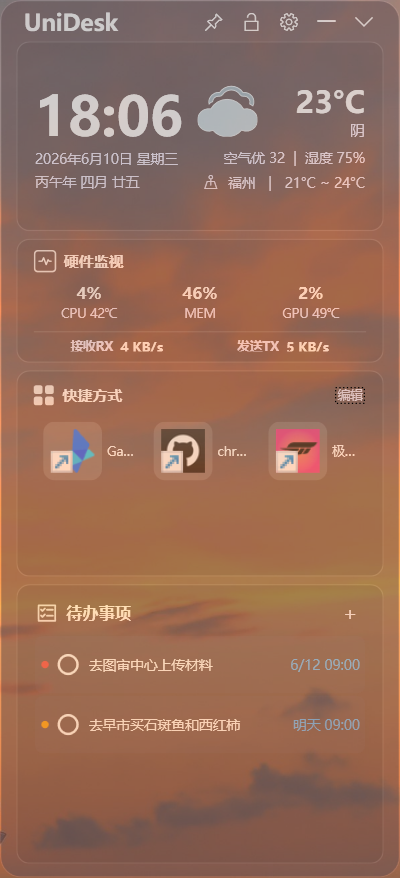
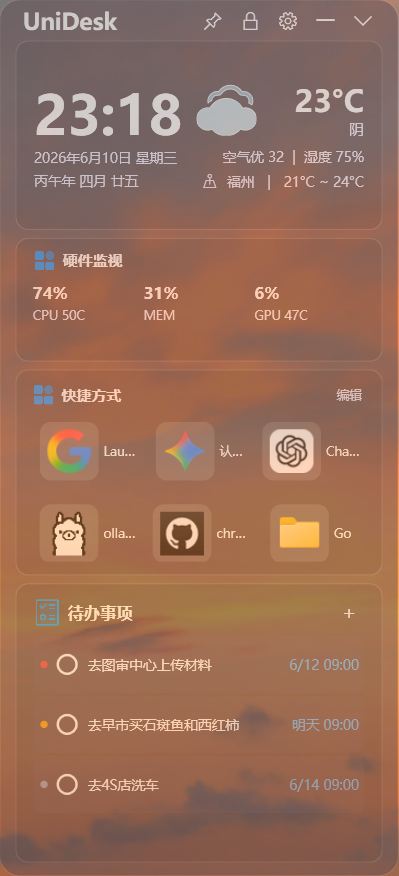
Improve GitHub documentation

diff --git a/README.zh-CN.md b/README.zh-CN.md
@@ -5,7 +5,7 @@
 </p>
 
 <p align="center">
-  <b>轻量的 Windows 桌面侧边栏，把时间天气、硬件监视、快捷方式和待办事项集中到一个面板里。</b>
+  <b>轻量的 Windows 桌面侧边栏，把时间天气、硬件监视、快捷方式、待办事项和个人桌面工作流集中到一个面板里。</b>
 </p>
 
 <p align="center">
@@ -13,36 +13,54 @@
 </p>
 
 <p align="center">
+  <a href="#项目介绍">项目介绍</a> ·
+  <a href="#原项目致谢">原项目致谢</a> ·
   <a href="#功能亮点">功能亮点</a> ·
-  <a href="#截图">截图</a> ·
-  <a href="#硬件监视">硬件监视</a> ·
-  <a href="#安装">安装</a> ·
-  <a href="#构建">构建</a>
+  <a href="#界面截图">界面截图</a> ·
+  <a href="#安装使用">安装使用</a> ·
+  <a href="#开发构建">开发构建</a>
 </p>
 
-UniDesk 是一个紧凑的个人桌面中心，可以贴在桌面边缘，常驻显示日常信息、快捷入口和轻量系统状态。它支持主题颜色、透明度、宽度、置顶、锁定和收起展开，适合作为长期使用的桌面侧边工具。
+## 项目介绍
+
+UniDesk 是一个紧凑的 Windows 桌面侧边工具。它可以贴在桌面边缘，常驻显示时间、天气、快捷入口、待办事项和轻量硬件状态。
+
+它的目标不是做一个复杂的桌面管理器，而是提供一个安静、顺手、可长期使用的个人桌面中心：需要时一直可见，不需要时可以收起，样式也能和桌面主题保持一致。
+
+## 原项目致谢
+
+UniDesk 基于 [Happyeveryweek/LumiDesk](https://github.com/Happyeveryweek/LumiDesk) 开发。感谢原作者提供的创意、基础代码和桌面小工具体验。
+
+本项目在 LumiDesk 的基础上进行了品牌重命名、硬件监视集成、实时网速显示、布局优化、双语说明文档和安装包发布等扩展。
 
 ## 功能亮点
 
-- **时间天气**：显示时间、日期、农历、天气、湿度、空气质量和温度范围。
+- **时间天气**：显示当前时间、日期、农历、天气、湿度、空气质量和温度范围。
 - **硬件监视**：显示 CPU、内存、GPU、温度，以及实时网络接收/发送速度。
 - **快捷方式**：把常用应用、文件夹或文件固定到侧边栏，一键打开。
 - **待办事项**：记录待办任务，支持优先级、到期时间、完成状态、备份和还原。
+- **内置日历**：打开桌面日历面板，查看公历和农历日期。
 - **个性化面板**：支持主题颜色、透明度、宽度、置顶、锁定、收起和快捷方式数量设置。
 - **本地优先**：设置、快捷方式和待办事项主要保存在本地。
 
-## 截图
+## 界面截图
+
+### 主界面
 
 <p align="center">
   <img src="images/unidesk-main-panel.png" alt="UniDesk 主界面" width="360">
 </p>
 
-<p align="center">
-  <img src="images/unidesk-modules.png" alt="UniDesk 模块介绍" width="900">
-</p>
+### 设置面板
 
 <p align="center">
-  <img src="images/unidesk-settings.png" alt="UniDesk 设置介绍" width="900">
+  <img src="images/unidesk-settings-panel.png" alt="UniDesk 设置面板" width="360">
+</p>
+
+### 内置日历
+
+<p align="center">
+  <img src="images/unidesk-calendar-panel.png" alt="UniDesk 内置日历" width="860">
 </p>
 
 ## 硬件监视
@@ -63,9 +81,9 @@ UniDesk 是一个紧凑的个人桌面中心，可以贴在桌面边缘，常驻
 
 自动定位使用当前网络出口 IP。普通家庭网络下通常能识别到正确城市，但代理、VPN、公司网络、运营商出口等情况可能导致定位到其他城市。需要固定城市时，可以在设置里手动选择。
 
-## 安装
+## 安装使用
 
-从 GitHub Releases 下载最新安装包并运行：
+从 [GitHub Releases](https://github.com/SuperDaddyV/UniDesk/releases/latest) 下载最新安装包并运行：
 
 ```powershell
 UniDesk_Setup_1.1.0.exe
@@ -76,16 +94,87 @@ UniDesk_Setup_1.1.0.exe
 - Windows 10 1903 或更新版本
 - Windows 11
 
-## 构建
+## 开发构建
+
+### 环境准备
+
+- Visual Studio 2022 或 JetBrains Rider
+- .NET 9 SDK
+- Windows 10 v1903+ 或 Windows 11
+- Inno Setup 6，仅打包安装程序时需要
+
+### 克隆与运行
 
 ```powershell
+git clone https://github.com/SuperDaddyV/UniDesk.git
+cd UniDesk
+
 dotnet restore
 dotnet build --configuration Release
+dotnet run --project UniDesk
+```
+
+### 发布应用
+
+```powershell
 dotnet publish .\UniDesk\UniDesk.csproj -c Release -r win-x64 --self-contained true -p:PublishSingleFile=false -o publish\win-x64
 ```
 
-发布文件会输出到 `publish\win-x64` 目录。
+### 制作安装包
 
-## 数据兼容
+```powershell
+ISCC.exe .\UniDesk.iss
+```
+
+安装包会输出到 `installer` 目录。
+
+## 技术栈
+
+| 技术 | 用途 |
+| --- | --- |
+| .NET 9 | 运行时与基础框架 |
+| WPF | Windows 桌面界面 |
+| Wpf.Ui | Windows 11 风格控件 |
+| CommunityToolkit.Mvvm | MVVM 辅助工具 |
+| Microsoft.Data.Sqlite | 本地数据存储 |
+| Hardcodet.NotifyIcon.Wpf | 系统托盘图标 |
+| Inno Setup | Windows 安装包 |
+
+## 项目结构
+
+```text
+UniDesk/
+├─ UniDesk/                # 主程序
+│  ├─ Controls/            # 自定义控件
+│  ├─ Helpers/             # 工具类
+│  ├─ Models/              # 数据模型
+│  ├─ Services/            # 业务服务
+│  ├─ ViewModels/          # MVVM 视图模型
+│  ├─ Resources/           # 主题和资源
+│  └─ icon/                # 应用图标与内置资源
+├─ UniDesk.Tests/          # 单元测试
+├─ docs/                   # 文档
+├─ images/                 # README 图片
+├─ installer-assets/       # 安装包语言资源
+├─ installer/              # 安装包输出目录
+├─ UniDesk.iss             # 安装包脚本
+└─ README.md
+```
+
+## 配置与数据
 
 UniDesk 的新数据目录为 `%LOCALAPPDATA%\UniDesk`。启动时会尝试复制兼容的旧版本地数据，尽量保留原有设置、待办事项、快捷方式、主题配置和缓存文件。
+
+常见数据包括：
+
+```text
+%LOCALAPPDATA%\UniDesk\
+├─ UniDesk.db              # 本地数据库
+├─ weather_cache.json      # 天气缓存
+├─ icons\                  # 快捷方式图标缓存
+└─ logs\                   # 运行日志
+```
+
+## 许可证
+
+本项目遵循仓库中的许可证。请同时尊重原项目 [LumiDesk](https://github.com/Happyeveryweek/LumiDesk) 及第三方依赖的许可证和版权声明。

diff --git a/README.md b/README.md
@@ -5,7 +5,7 @@
 </p>
 
 <p align="center">
-  <b>A lightweight Windows desktop sidebar for time, weather, hardware status, shortcuts, and todos.</b>
+  <b>A lightweight Windows desktop sidebar for time, weather, hardware status, shortcuts, todos, and personal desktop workflows.</b>
 </p>
 
 <p align="center">
@@ -13,14 +13,25 @@
 </p>
 
 <p align="center">
+  <a href="#about">About</a> ·
+  <a href="#credits">Credits</a> ·
   <a href="#features">Features</a> ·
   <a href="#screenshots">Screenshots</a> ·
-  <a href="#hardware-monitor">Hardware Monitor</a> ·
   <a href="#install">Install</a> ·
   <a href="#build">Build</a>
 </p>
 
-UniDesk is a compact personal desktop hub for Windows. It stays on the edge of your desktop and keeps daily information, quick actions, and lightweight system status in one themeable panel.
+## About
+
+UniDesk is a compact desktop sidebar for Windows. It stays on the edge of your desktop and keeps daily information, quick actions, lightweight hardware status, and todo items in one themeable panel.
+
+The goal is to provide a calm personal desktop center: always visible when needed, easy to collapse when not needed, and simple enough to run as a daily utility.
+
+## Credits
+
+UniDesk is developed based on [Happyeveryweek/LumiDesk](https://github.com/Happyeveryweek/LumiDesk). Thanks to the original author for the idea, foundation, and implementation of the desktop widget experience.
+
+This project keeps the spirit of LumiDesk while adding project rebranding, integrated hardware monitoring, network speed display, updated layout, bilingual documentation, and installer packaging.
 
 ## Features
 
@@ -28,21 +39,28 @@ UniDesk is a compact personal desktop hub for Windows. It stays on the edge of y
 - **Hardware Monitor**: CPU, memory, GPU, temperature, and real-time network RX/TX speed.
 - **Quick Shortcuts**: pin apps, folders, and files for one-click access.
 - **Todo List**: manage tasks with priority, due date, completion state, backup, and restore.
+- **Built-in Calendar**: open a desktop calendar panel with solar and lunar dates.
 - **Personalized Panel**: adjust theme colors, transparency, width, topmost, lock, collapse, and shortcut count.
 - **Local-first Data**: settings, shortcuts, and todos are stored locally.
 
 ## Screenshots
 
+### Main Panel
+
 <p align="center">
   <img src="images/unidesk-main-panel.png" alt="UniDesk main panel" width="360">
 </p>
 
-<p align="center">
-  <img src="images/unidesk-modules.png" alt="UniDesk modules overview" width="900">
-</p>
+### Settings
 
 <p align="center">
-  <img src="images/unidesk-settings.png" alt="UniDesk settings overview" width="900">
+  <img src="images/unidesk-settings-panel.png" alt="UniDesk settings panel" width="360">
+</p>
+
+### Calendar
+
+<p align="center">
+  <img src="images/unidesk-calendar-panel.png" alt="UniDesk calendar panel" width="860">
 </p>
 
 ## Hardware Monitor
@@ -65,7 +83,7 @@ Auto location uses the current network exit IP. It usually works well on normal 
 
 ## Install
 
-Download the latest installer from GitHub Releases and run:
+Download the latest installer from [GitHub Releases](https://github.com/SuperDaddyV/UniDesk/releases/latest) and run:
 
 ```powershell
 UniDesk_Setup_1.1.0.exe
@@ -78,14 +96,75 @@ System requirements:
 
 ## Build
 
+### Requirements
+
+- Visual Studio 2022 or JetBrains Rider
+- .NET 9 SDK
+- Windows 10 v1903+ or Windows 11
+- Inno Setup 6, only required for building the installer
+
+### Compile and Run
+
 ```powershell
+git clone https://github.com/SuperDaddyV/UniDesk.git
+cd UniDesk
+
 dotnet restore
 dotnet build --configuration Release
+dotnet run --project UniDesk
+```
+
+### Publish
+
+```powershell
 dotnet publish .\UniDesk\UniDesk.csproj -c Release -r win-x64 --self-contained true -p:PublishSingleFile=false -o publish\win-x64
 ```
 
-Published files are written to the `publish\win-x64` directory.
+### Installer
+
+```powershell
+ISCC.exe .\UniDesk.iss
+```
+
+The installer is written to the `installer` directory.
+
+## Tech Stack
+
+| Technology | Usage |
+| --- | --- |
+| .NET 9 | Runtime and base framework |
+| WPF | Windows desktop UI |
+| Wpf.Ui | Windows 11 style controls |
+| CommunityToolkit.Mvvm | MVVM helpers |
+| Microsoft.Data.Sqlite | Local data storage |
+| Hardcodet.NotifyIcon.Wpf | System tray icon |
+| Inno Setup | Windows installer |
+
+## Project Structure
+
+```text
+UniDesk/
+├─ UniDesk/                # Main application
+│  ├─ Controls/            # Custom controls
+│  ├─ Helpers/             # Utility helpers
+│  ├─ Models/              # Data models
+│  ├─ Services/            # Business services
+│  ├─ ViewModels/          # MVVM view models
+│  ├─ Resources/           # Themes and resources
+│  └─ icon/                # App icons and bundled assets
+├─ UniDesk.Tests/          # Unit tests
+├─ docs/                   # Documentation
+├─ images/                 # README images
+├─ installer-assets/       # Installer language assets
+├─ installer/              # Generated installer output
+├─ UniDesk.iss             # Inno Setup script
+└─ README.md
+```
 
 ## Data Compatibility
 
 UniDesk stores new user data under `%LOCALAPPDATA%\UniDesk`. On startup, it can copy compatible legacy local data into the new UniDesk data directory so existing settings, tasks, shortcuts, theme choices, and cache files are preserved where possible.
+
+## License
+
+This project follows the repository license. Please also respect the license and copyright of the original [LumiDesk](https://github.com/Happyeveryweek/LumiDesk) project and its third-party dependencies.